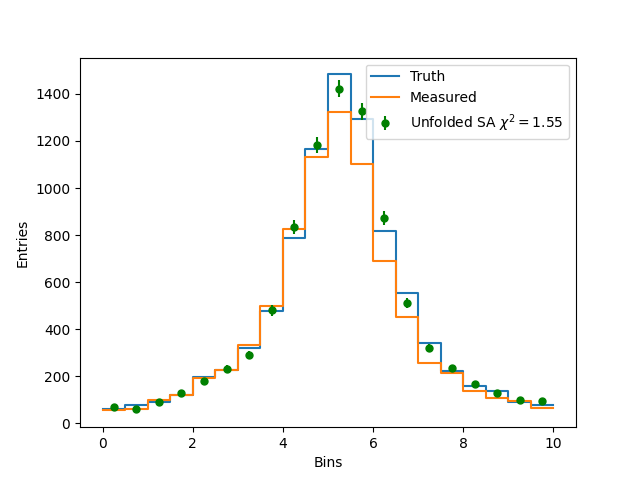
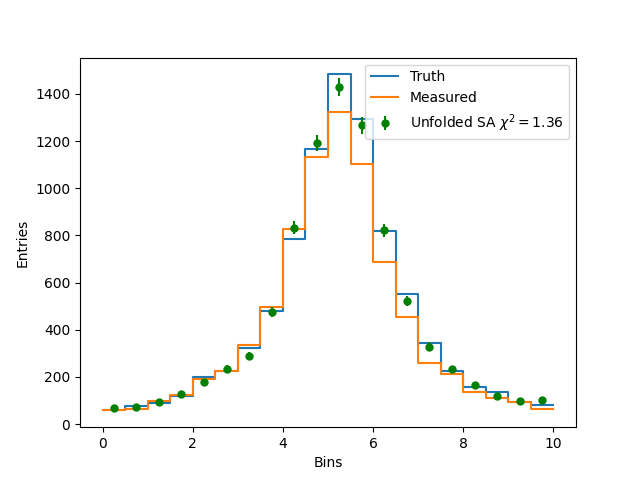
Implement optimal value range initialization for quadratic model integer variables

diff --git a/src/QUnfold/core/QUnfoldQUBO.py b/src/QUnfold/core/QUnfoldQUBO.py
@@ -76,19 +76,29 @@ class QUnfoldQUBO:
         D += np.diag(diag1, k=1) + np.diag(diag1, k=-1)
         return D
 
-    def _define_variables(self):
+    def _define_variables(self, opt):
         """
         Define the list of variables for the QUBO problem.
+
+        Parameters:
+            opt (bool): enables optimal range for the integer variables.
 
         Returns:
             list: encoded integer variables.
         """
-        # Get largest power of 2 integer below the total number of entries
-        n = int(2 ** np.floor(np.log2(sum(self.d)))) - 1
-
-        # Encode integer variables using logarithmic binary encoding
-        vars = [LogEncInteger(f"x{i}", value_range=(0, n)) for i in range(len(self.d))]
-        return vars
+        variables = []
+        if opt:
+            for i, mean in enumerate(self.d):
+                error = 5 * mean**0.5
+                lower = 0 if mean - error < 0 else int(np.floor(mean - error))
+                upper = 1 if mean == 0 else int(np.ceil(mean + error))
+                variables.append(LogEncInteger(f"x{i}", value_range=(lower, upper)))
+        else:
+            variables = [
+                LogEncInteger(f"x{i}", value_range=(0, int(sum(self.d))))
+                for i in range(len(self.d))
+            ]
+        return variables
 
     def _define_hamiltonian(self, x):
         """
@@ -116,11 +126,14 @@ class QUnfoldQUBO:
                 hamiltonian += B[i, j] * x[i] * x[j]
         return hamiltonian
 
-    def initialize_qubo_model(self):
+    def initialize_qubo_model(self, optimize_vars_range=True):
         """
-        Initialize the QUBO model and BQM instance for the unfolding problem.
+        Initialize QUBO model and BQM instance for the unfolding problem.
+
+        Parameters:
+            optimize_vars_range (bool, optional): enables optimal range for the integer variables (default is True).
         """
-        x = self._define_variables()
+        x = self._define_variables(opt=optimize_vars_range)
         h = self._define_hamiltonian(x)
         self.labels = [x[i].label for i in range(len(x))]
         self.model = h.compile()
